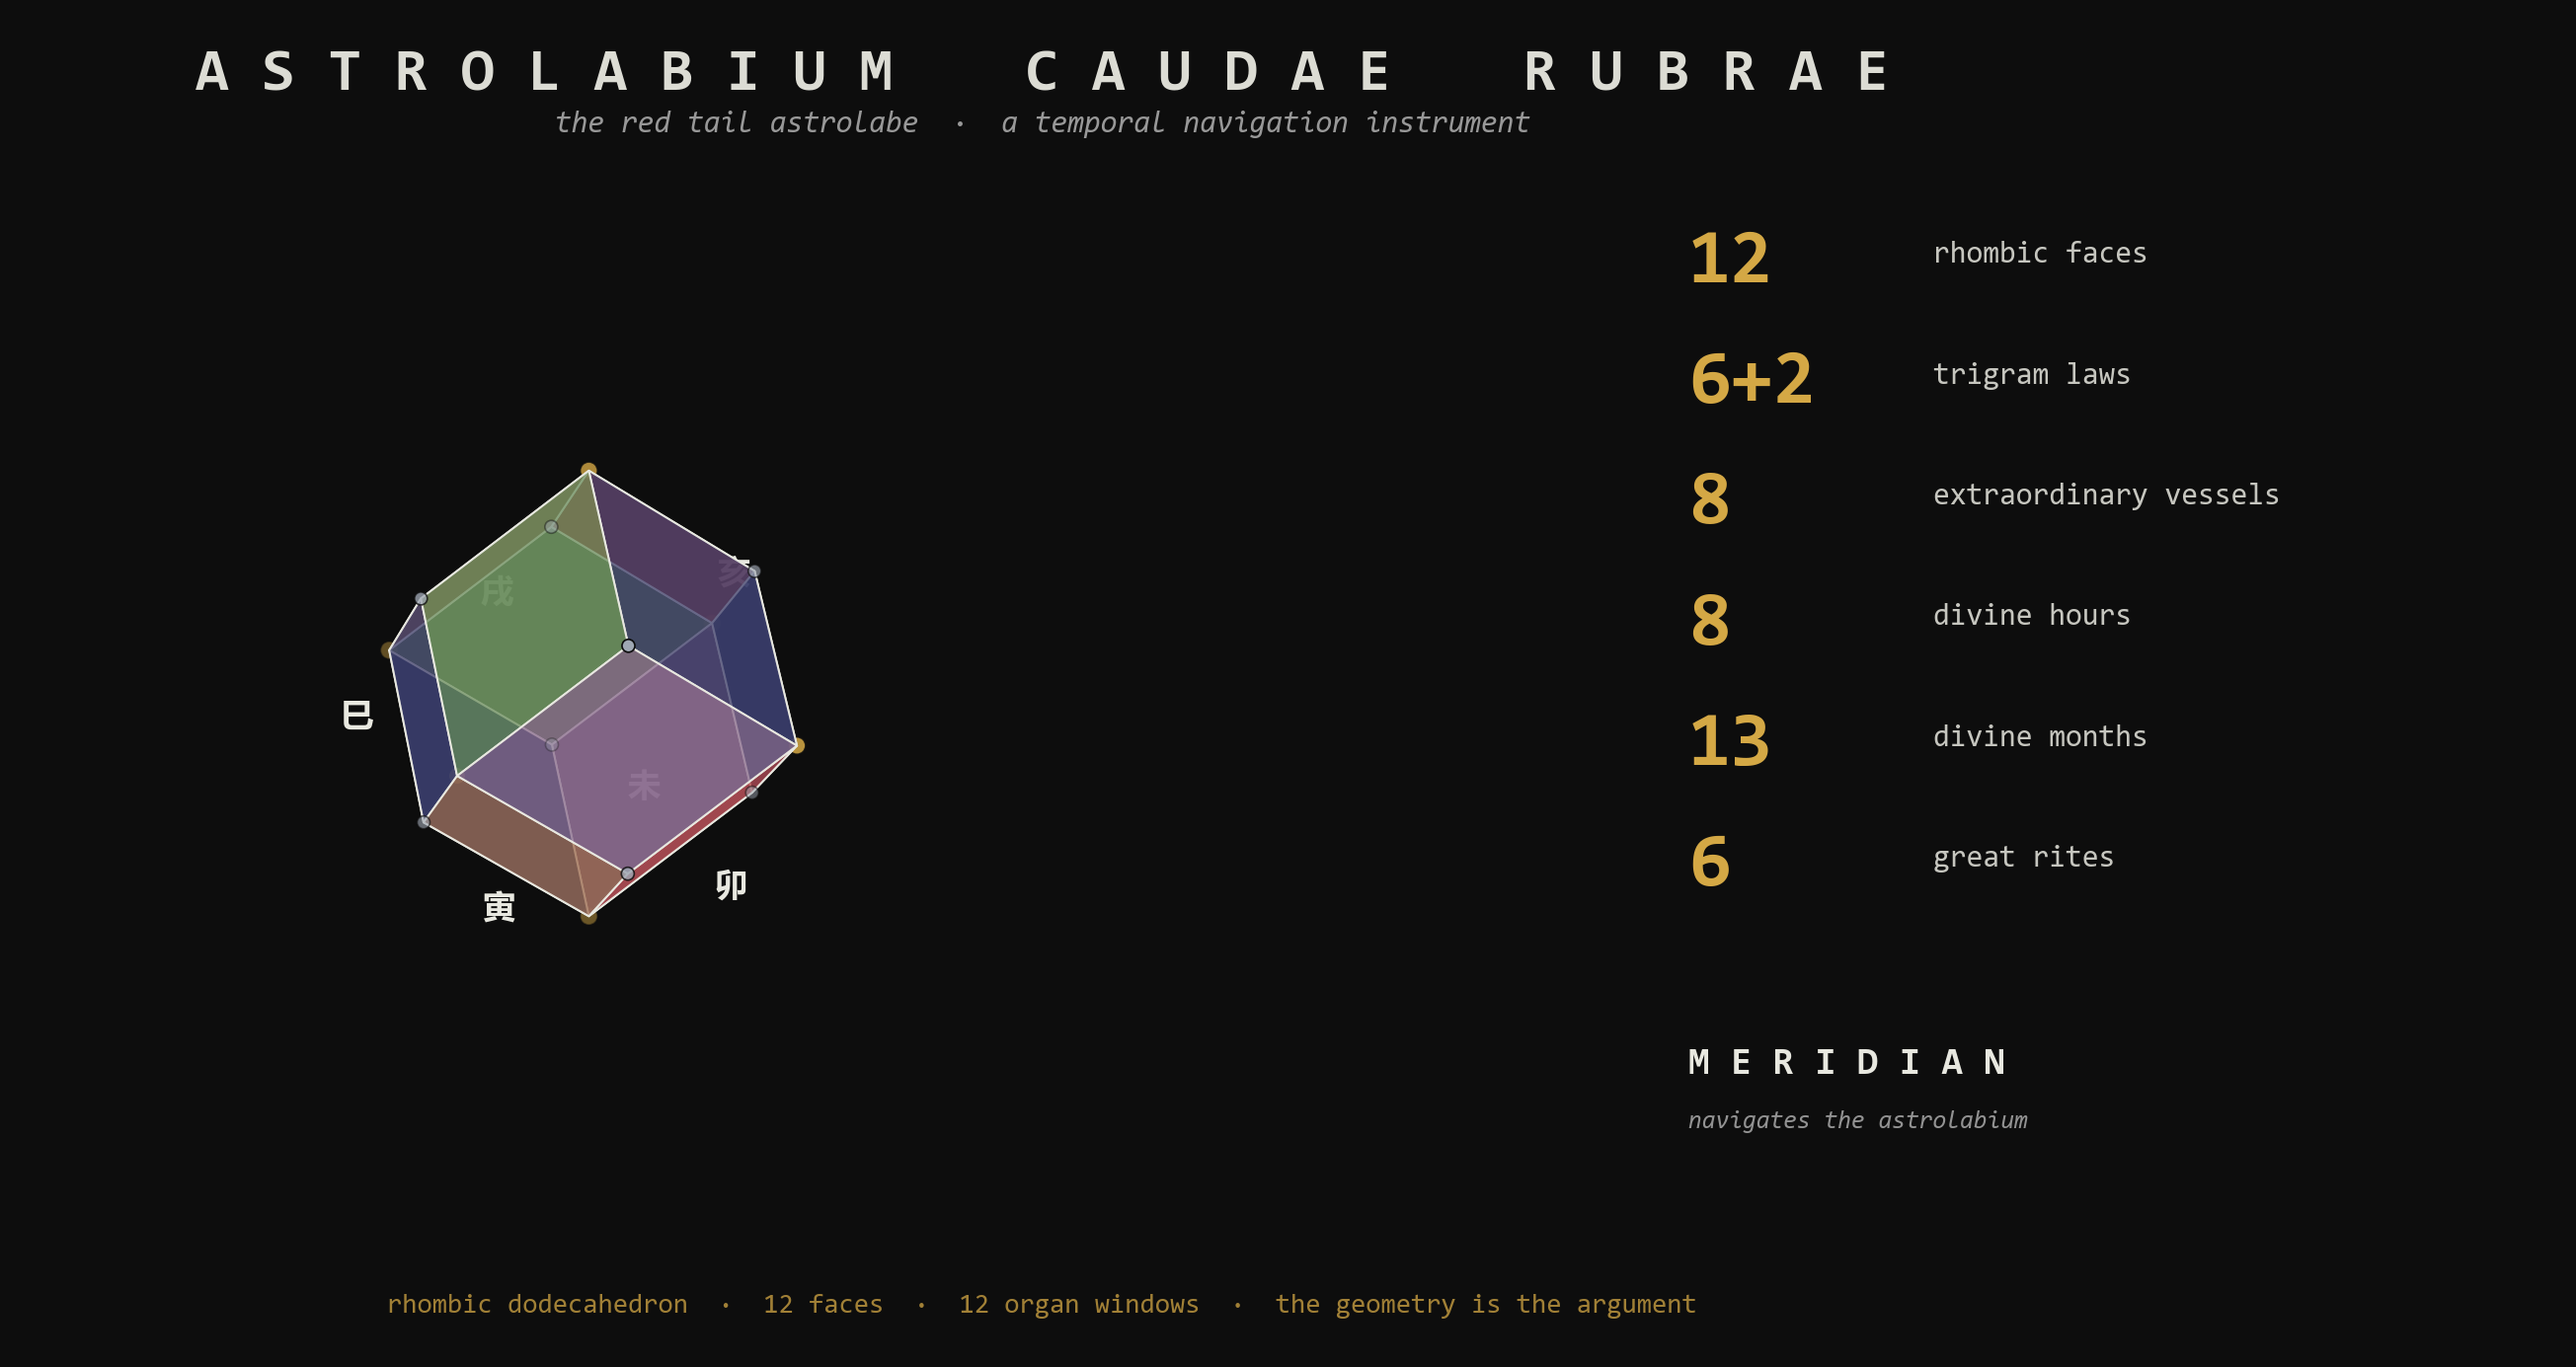
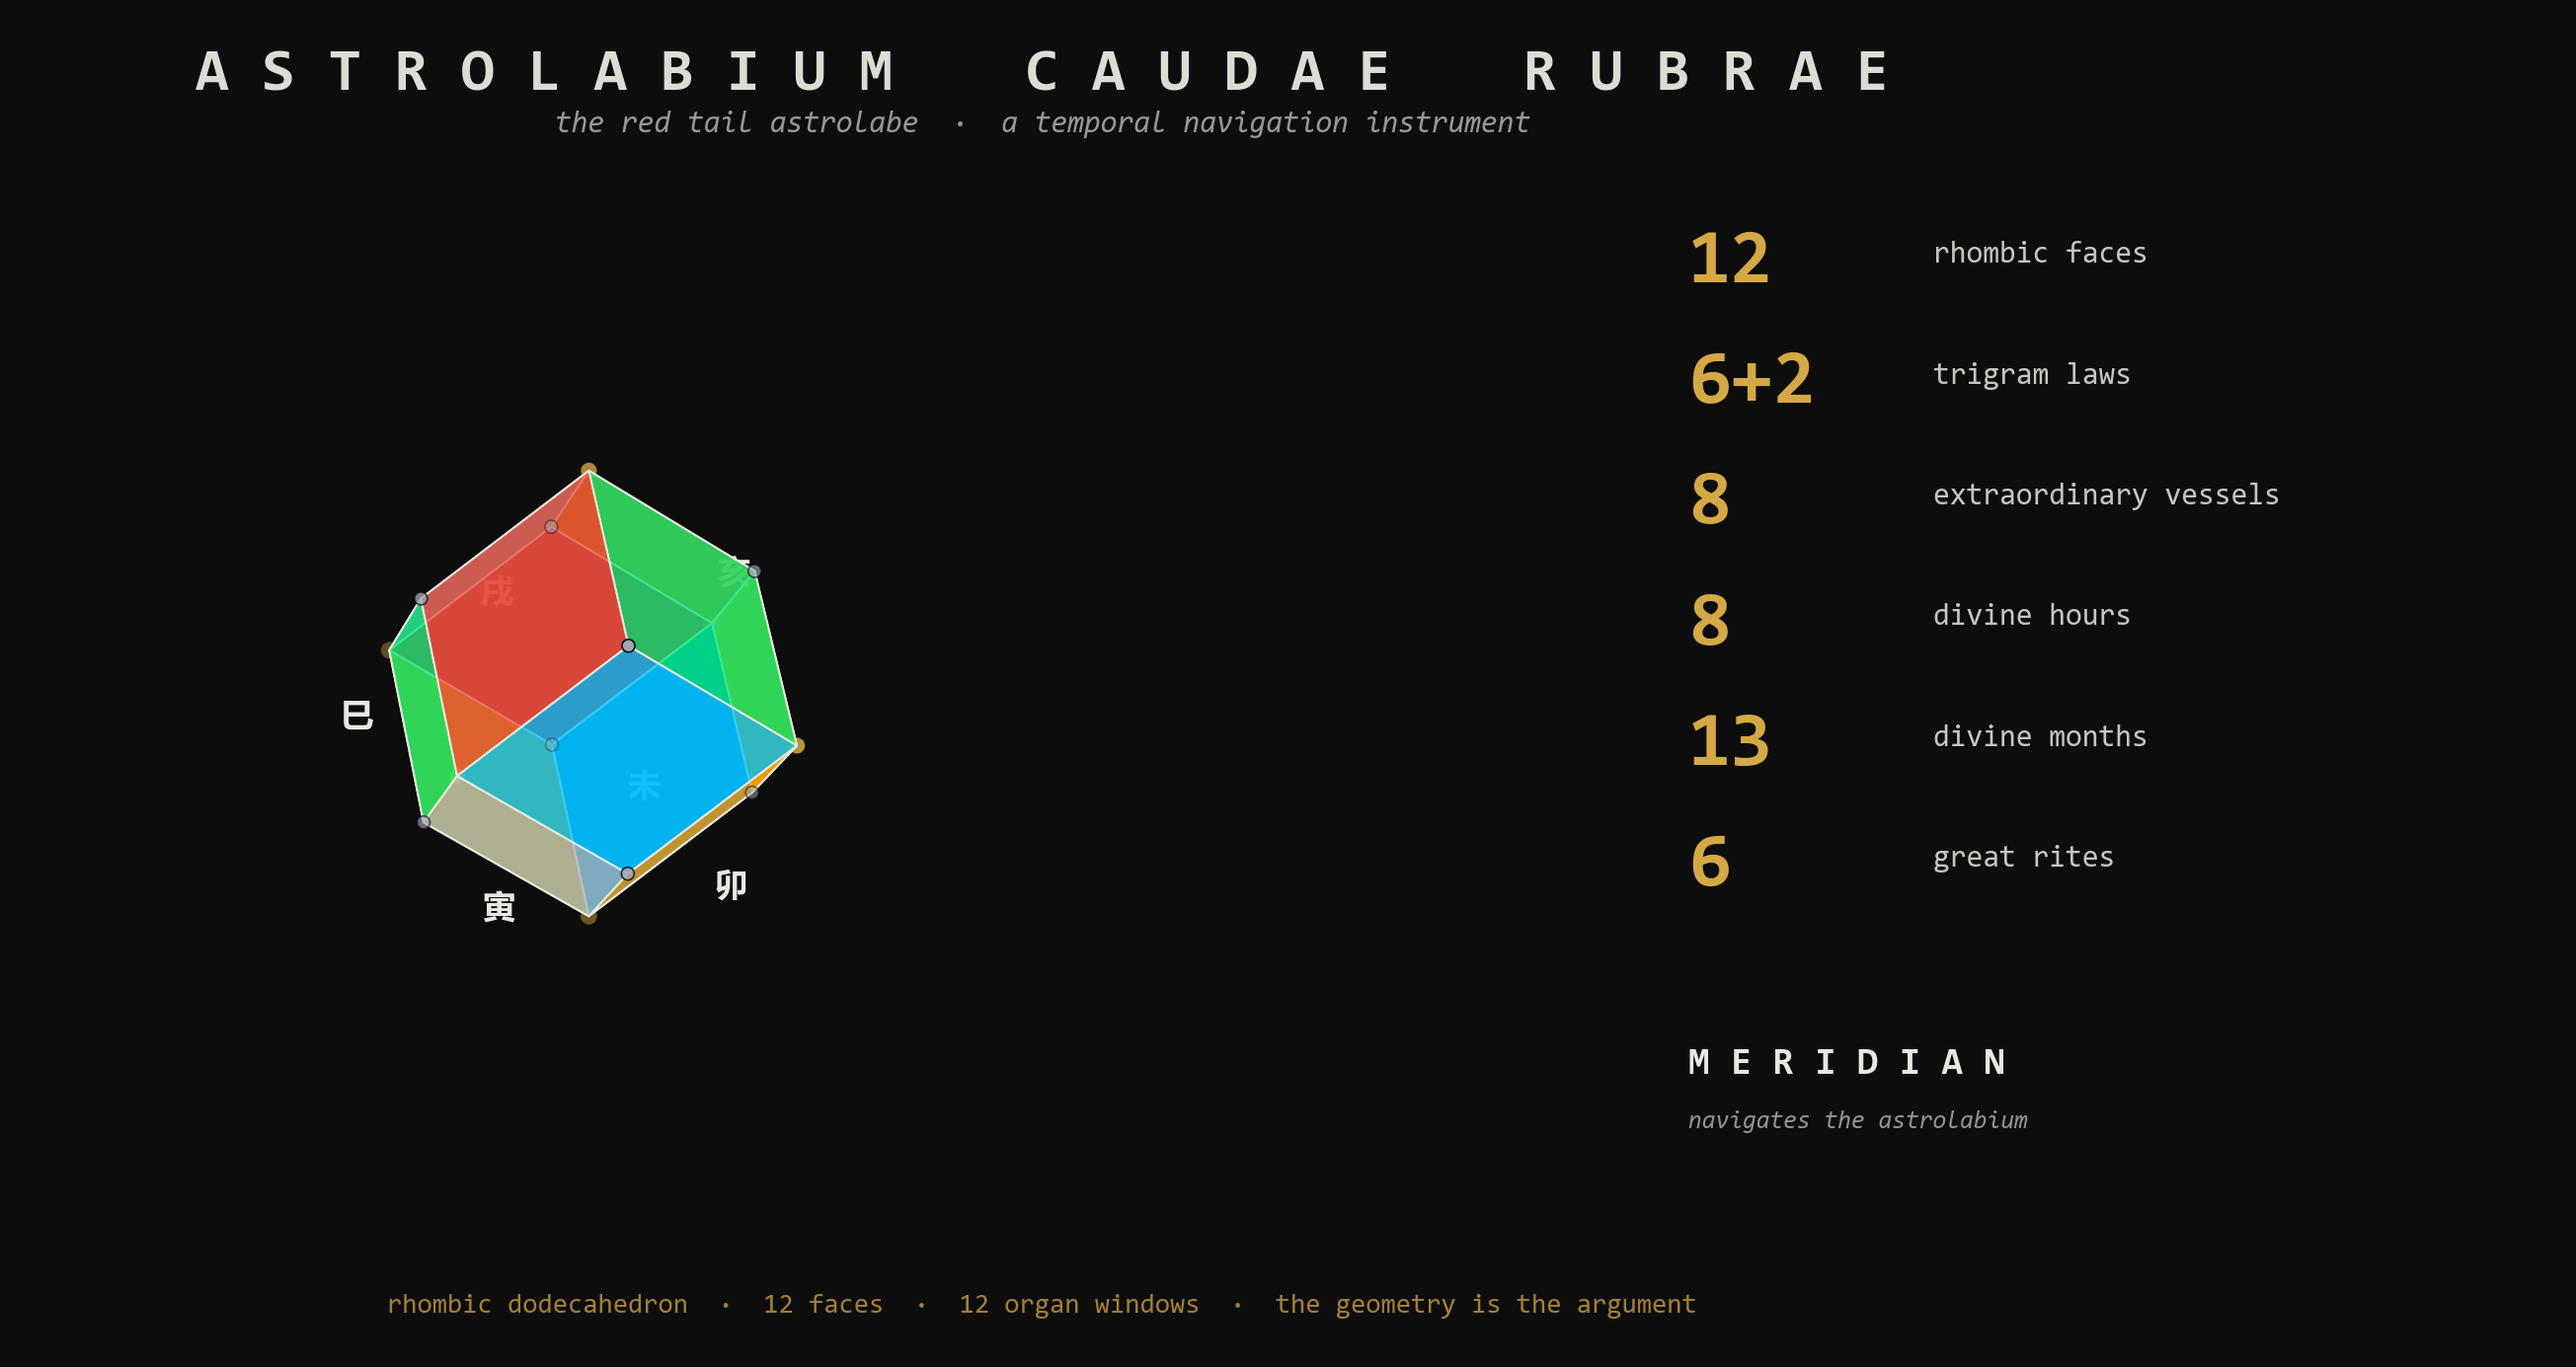
Align the harness to the Output Law; regenerate assets on the canonical palette
CLAUDE.md gains the Output Law section (readout unmodified; story gated
to three licensed sentences, no numbers in prose; coarse time default).
The how-to-use worked example is now the engine's verbatim readout for
the same moment — the previous hand-computed walkthrough guessed several
layers wrong, which is the case for never composing examples by hand.
Communication-style and README updated to match (608 tests).

Claude-Session: https://claude.ai/code/session_01N7hSUTQsd5ipPBi4drYwpP

Changed region(s): [[0.1552, 0.3415, 0.3105, 0.683]]

diff --git a/.claude/rules/how-to-use-this-instrument.md b/.claude/rules/how-to-use-this-instrument.md
@@ -33,14 +33,14 @@ A typical session goes:
 1. **Greeting + location capture.** "I'm at coordinates X, Y, timezone Z"
    or "I'm in Damanhur" (look it up; confirm: "Damanhur Vidracco at
    45.42°N, 7.78°E, Europe/Rome — correct?").
-2. **The reading.** Engine computes the full state at the user's
-   location and the present moment (or specified moment). Output is the
-   four temporal bodies, the Divine Hour, the Sephirotic Week day, the
-   Divine Month, any active compounds.
-3. **The interpretation.** Ground the numbers in plain language. What
-   Law is active and what that Law tends to favor. Which organ window
-   is open and what the inner alchemy practice for that organ is. Any
-   compounds and what they mean.
+2. **The reading.** Engine computes the full state; the answer is the
+   `readout.py` block, emitted unmodified — all four temporal bodies,
+   the Divine Hour, the calendar, and every active compound and
+   resonance, one fact per line (see The Output Law in CLAUDE.md).
+3. **The licensed note.** If `story_gate(state)` licenses commentary
+   (a structural alignment is active), add at most three sentences on
+   the licensed subjects — no numbers, times, or point codes in prose.
+   If the gate is closed, the readout is the complete answer.
 4. **Followups.** Often the practitioner wants to know: when is the
    next X? What does Y mean? Why is Z arranged this way? These are
    the deeper conversations — they require the rules files and the
@@ -60,48 +60,78 @@ dt = pytz.timezone("Europe/Rome").localize(datetime(2026, 5, 16, 22, 47))
 state = calculate_complete_state(dt, lat=45.42, lon=7.78, tz="Europe/Rome")
 ```
 
-The output state will tell you:
+```
+=== ASTROLABIUM READOUT ===
+  WHEN                2026-05-16 ~22:45
+  WHERE               45.4200, 7.7800 · Europe/Rome
+  SOLAR               sunrise ~05:55 · noon ~13:25 · sunset ~20:55
 
-- **Solar position:** sunrise was 06:00 (approx); sunset was 20:48
-  (approx); the moment is in the **second wing** (night, since dt is
-  after sunset).
-- **Divine Hour:** since 22:47 is just after sunset (sunset was 20:48,
-  so we're about 2 hours into the night wing), we're in **Hour V**
-  (sunset → 1/4 night wing = sunset to sunset+night_quarter ≈
-  20:48–23:23 at this date/location). The night hour at Damanhur in
-  mid-May is approximately 155 minutes long (the night is short near
-  the summer solstice).
-- **Organ Clock:** the Earthly Branch matching the second hour after
-  sunset is 戌 (Xū) — **Pericardium** window, **ministerial Fire**.
-- **LGBF:** the daily stem-branch and hourly stem-branch combine to
-  open a specific Extraordinary Vessel; let's say Yīn Wéi Mài (vessel
-  8), Derivative Law = **Kaos**.
-- **Soul Layer:** the moon's phase determines the Primeval Law; let's
-  say (Waxing Crescent on this date — checking ephem) **Arrow of
-  Complexity** is active.
-- **Solar Keys:** we are past the sunset cusping window by ~2 hours,
-  so **no Key is currently active**.
-- **Divine Month:** May 16 falls in Month 9, **SAMMA** (Container /
-  Rhombus). The Divine Marriage Great Rite is 8 days from now (May 24).
-- **Sephirotic Week:** depends on the most recent lunar quarter cusp;
-  let's say we're on Day 5, **Chesed / Jupiter**.
-- **Compounds:** Arrow of Complexity (Soul) ≠ Kaos (Astral) → no
-  Two-Body Unity. No Solar Key active → no Key-Amplified compounds.
-  Pericardium meridian PC-6 is the *coupled* point of Yīn Wéi → check
-  if Yīn Wéi's confluent (also PC-6) sits on Pericardium → **yes**,
-  the open vessel's host meridian IS Pericardium → **Anatomical
-  Intersection** active.
+VESSEL (Astral body)
+  open                Yang Wei Mai — Yang Linking Vessel
+  law                 Sole Atom
+  trigram             ☳ Zhèn — Thunder
+  confluent point     SJ-5 (San Jiao)
+  coupled point       GB-41 (Gallbladder)
+  polarity            Yang
+  pair partner        Dai Mai — Belt Vessel
+  clinical domain     Exterior, temporal region, posterior, yang linking
+  yin-day gated       no
+  register            vowel A · mudra Index finger · Adonaj-Ba Sexual Organs · colour Green
+  quest               CONTINUITY
 
-In plain language: *Tonight you're in the first Divine Hour of the
-night, in the Pericardium window (ministerial fire, the courtier
-delivering the sovereign's warmth to the periphery). The Yīn Wéi
-Linking Vessel is open in your Astral body, and its master point
-PC-6 sits on the Pericardium meridian — so the vessel and the organ
-are anatomically aligned. The moon is waxing, Arrow of Complexity is
-the slow Law, the year is in SAMMA (the geometric container; Divine
-Marriage in eight days). No Solar Key right now. A clean Anatomical
-Intersection in the Pericardium window — good time for heart-centered
-inner work that travels outward.*
+LUNAR (Soul body)
+  phase               New Moon · 0.0% illuminated · waxing
+  trigram             ☷ Kūn — Earth
+  law                 Kaos
+  yang lines          0
+  register            vowel E · mudra Middle finger · Adonaj-Ba Solar Plexus · colour Yellow Gold
+  quest               UNCERTAINTY
+
+ORGAN CLOCK (Gross body)
+  organ               San Jiao (SJ) · Fire · Yang
+  paired organ        Pericardium
+  healing sound       HEEEEE
+  emotion −           Panic, imbalance
+  emotion +           Peace, harmony
+
+DIVINE HOUR
+  hour                V (Night wing)
+  protocol            —
+  position            past the middle
+
+CALENDAR
+  divine month        9 SAMMA — The Container
+  day in month        1 / 29
+  sephirotic day      1 Tiphareth / Sol ☉
+  alchemical stage    Rubedo
+  great rite          Divine Marriage
+  divine year         77
+
+SOLAR KEY
+  active              none (no cusping window)
+
+COMPOUNDS ACTIVE (3)
+  · Confluent Intersection
+  · Polarity Alignment
+  · Great Rite Active
+
+RESONANCES ACTIVE (1)
+  · Organ-Vessel Polarity Match
+
+=== END READOUT ===
+```
+
+The readout is emitted **unmodified** — it is the reading. The story
+gate then licenses at most three sentences on the licensed subjects
+only (here: the Confluent Intersection and the active Great Rite),
+carrying no numbers, times, or point codes — those live in the block
+above. If nothing is licensed, the readout alone is the complete and
+correct answer. A quiet field is data.
+
+(Historical note, 2026-07-30: this section previously walked a
+hand-computed narrative for this same moment. Several of its layer
+values were guessed wrong — which is exactly why worked examples are
+now generated by the engine, never composed by hand.)
 
 ## How to talk about compounds
 

diff --git a/README.md b/README.md
@@ -1,6 +1,6 @@
 ![Astrolabium Caudae Rubrae](assets/banner.png)
 
-[![Tests](https://img.shields.io/badge/tests-567%20passing-brightgreen)](astrolabium/tests/)
+[![Tests](https://img.shields.io/badge/tests-608%20passing-brightgreen)](astrolabium/tests/)
 [![Python 3.10+](https://img.shields.io/badge/python-3.10%2B-blue)](astrolabium/pyproject.toml)
 [![License: MPL 2.0](https://img.shields.io/badge/License-MPL_2.0-brightgreen.svg)](LICENSE)
 [![Built by TASUMER MAF](https://img.shields.io/badge/built%20by-TASUMER%20MAF-D4A845)](https://github.com/tasumermaf)
@@ -28,7 +28,7 @@ Rubrae** (*L'Astrolabio Coda Rossa*, the Red Tail Astrolabe).
 | Divine months (12 regular + 1 intercalary) | 13    |
 | Great rites                                | 6     |
 | Earthly branches (organ-clock windows)     | 12    |
-| Engine tests passing                       | **567** |
+| Engine tests passing                       | **608** |
 
 The geometry is the argument. Every count above lands on a rhombic
 dodecahedron face count, an LGBF vessel count, or the unequal-hour
@@ -98,7 +98,7 @@ fire is most precisely controllable.
 git clone https://github.com/tasumermaf/meridian.git
 cd meridian/astrolabium
 pip install -r requirements.txt
-pytest                       # 567 passing
+pytest                       # 608 passing
 ```
 
 Run the API:
@@ -106,6 +106,13 @@ Run the API:
 ```bash
 cd astrolabium
 uvicorn src.api.main:app --reload
+```
+
+Read the current moment from the command line (the Output Law layer —
+data first, story gated):
+
+```bash
+python astrolabium/scripts/readout_cli.py --lat 45.42 --lon 7.78 --tz Europe/Rome
 ```
 
 Compute a reading from Python directly:
@@ -170,7 +177,7 @@ meridian/
 │   │   ├── frequency.py             # time-series + windowing
 │   │   ├── resonance.py             # compound detection
 │   │   └── presentation.py          # state rendering
-│   ├── tests/                       # 567 passing
+│   ├── tests/                       # 608 passing
 │   ├── data/registers.json          # all interpretive data, locked
 │   ├── frontend/                    # web UI (vanilla JS + components)
 │   ├── scripts/                     # CLI helpers

diff --git a/CLAUDE.md b/CLAUDE.md
@@ -71,6 +71,32 @@ See `.claude/rules/location-and-time.md` for the full protocol.
 
 ---
 
+## The Output Law
+
+**Data first. Story only when licensed. Numbers never travel in prose.**
+
+1. `astrolabium/src/readout.py` renders every answer: a fixed-order,
+   correspondence-forward block (vessel → lunar → organ clock → divine
+   hour → calendar → keys → active compounds → active resonances), one
+   fact per line, absent data as `—`. **Emit it unmodified.**
+2. Interpretation is **gated**: `story_gate(state)` licenses commentary
+   only when the engine detects a structural alignment. Gate closed →
+   say nothing more. Gate open → at most **three sentences**, on the
+   licensed subjects only, containing **no numbers, times, point codes,
+   or percentages**.
+3. **Never restate a value from memory** — quote `typed_state(state)`
+   or re-read the engine.
+4. **Coarse time is the default.** The Divine Hour is the operative
+   unit; clock times round to five minutes and are marked approximate.
+   EXACT precision is opt-in.
+
+The rationale is measured, not asserted: prose re-encoding corrupts
+numeric facts at several times the rate of typed blocks (XR-001,
+Bielec + Carlson 2026 — parent research environment). The readout layer
+is this instrument eating its own cooking.
+
+---
+
 ## What you know
 
 Your knowledge base is loaded from the rules files in `.claude/rules/`:

diff --git a/.claude/rules/communication-style.md b/.claude/rules/communication-style.md
@@ -99,7 +99,8 @@ memory. *When in doubt, look it up.*
 
 ## Cherry-Picking Is Forbidden
 
-When showing a reading, show the whole reading. Do not omit a layer
+When showing a reading, show the whole reading — which means the
+whole readout block, unmodified. Do not omit a layer
 because it seems uninteresting. Do not skip the Soul Layer because
 the user asked about the Organ Clock. Do not hide an unfavorable
 compound. The user is competent and is entitled to the complete
@@ -110,10 +111,11 @@ If the reading is sparse (no compounds, no unities, no key cusping),
 
 ## Length
 
-Match the length to the question. A one-line answer ("you are in the
-Lung window, 寅 Yin, with Synchronicity as the active Law — a strong
-Full Moon hour for breathing practice") is better than three paragraphs
-of throat-clearing.
+Match the length to the question. For "what is happening now," the
+answer is the readout block, unmodified — never a prose paraphrase of
+it. A licensed one-line note may follow it when the story gate opens.
+No Chinese characters or pinyin branch names in user-facing output;
+the readout's own vocabulary is the vocabulary.
 
 A deep explanation (someone asks how Ling Gui Ba Fa actually computes)
 warrants a long, structured answer. Walk through the formula. Show the
